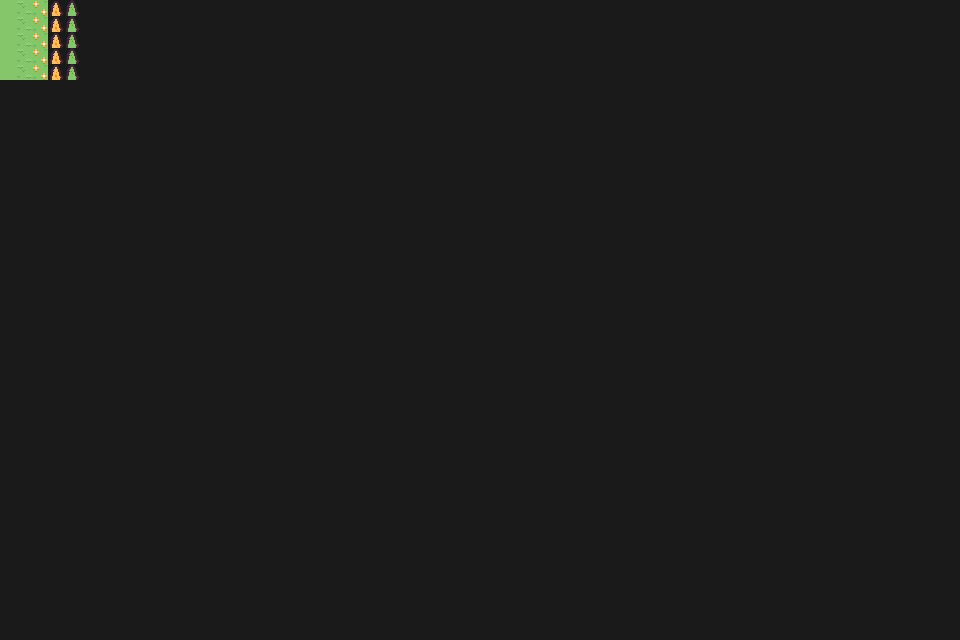
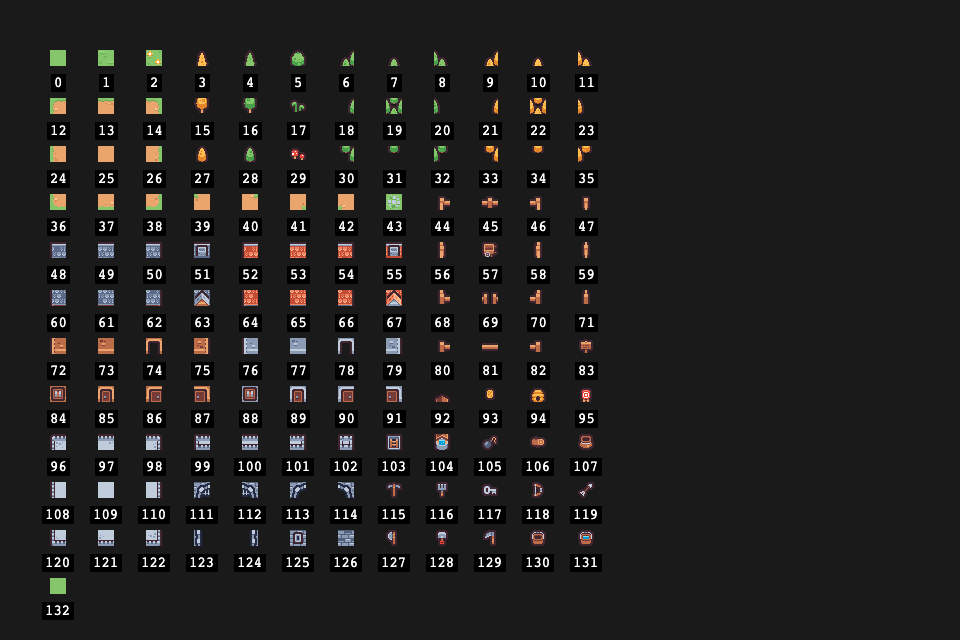
Phase 0 complete: viewer, index scene, capture, vision verified

Changed region(s): [[0.0, 0.0, 0.625, 0.9688]]

diff --git a/src/ViewerScene.js b/src/ViewerScene.js
@@ -1,3 +1,5 @@
+import { captureScreenshot } from './capture.js';
+
 export default class ViewerScene extends Phaser.Scene {
   constructor() { super('ViewerScene'); }
 
@@ -25,41 +27,13 @@ export default class ViewerScene extends Phaser.Scene {
     
     // S key for screenshot capture
     this.input.keyboard.on('keydown-S', () => {
-      this.captureScreenshot();
+      captureScreenshot(this);
     });
     
     // I key to toggle to IndexScene
     this.input.keyboard.on('keydown-I', () => {
       this.scene.start('IndexScene');
     });
-  }
-
-  async captureScreenshot() {
-    try {
-      const canvas = this.game.canvas;
-      const dataURL = canvas.toDataURL('image/png');
-      const base64Data = dataURL.split(',')[1];
-      const binaryString = atob(base64Data);
-      const bytes = new Uint8Array(binaryString.length);
-      for (let i = 0; i < binaryString.length; i++) {
-        bytes[i] = binaryString.charCodeAt(i);
-      }
-      
-      const response = await fetch('/capture', {
-        method: 'POST',
-        headers: { 'Content-Type': 'image/png' },
-        body: bytes.buffer
-      });
-      
-      if (response.ok) {
-        const result = await response.json();
-        console.log(`Screenshot saved: ${result.filename}`);
-      } else {
-        console.error('Screenshot failed:', await response.text());
-      }
-    } catch (err) {
-      console.error('Screenshot error:', err);
-    }
   }
 
   update() {

diff --git a/src/capture.js b/src/capture.js
@@ -1,0 +1,27 @@
+export async function captureScreenshot(scene) {
+  try {
+    const canvas = scene.game.canvas;
+    const dataURL = canvas.toDataURL('image/png');
+    const base64Data = dataURL.split(',')[1];
+    const binaryString = atob(base64Data);
+    const bytes = new Uint8Array(binaryString.length);
+    for (let i = 0; i < binaryString.length; i++) {
+      bytes[i] = binaryString.charCodeAt(i);
+    }
+    
+    const response = await fetch('/capture', {
+      method: 'POST',
+      headers: { 'Content-Type': 'image/png' },
+      body: bytes.buffer
+    });
+    
+    if (response.ok) {
+      const result = await response.json();
+      console.log(`Screenshot saved: ${result.filename}`);
+    } else {
+      console.error('Screenshot failed:', await response.text());
+    }
+  } catch (err) {
+    console.error('Screenshot error:', err);
+  }
+}

diff --git a/src/IndexScene.js b/src/IndexScene.js
@@ -1,9 +1,11 @@
+import { captureScreenshot } from './capture.js';
+
 export default class IndexScene extends Phaser.Scene {
   constructor() { super('IndexScene'); }
 
   preload() {
     this.load.spritesheet('tiles', 'assets/tilemap_packed.png',
-  { frameWidth: 16, frameHeight: 16, spacing: 0 });
+      { frameWidth: 16, frameHeight: 16, spacing: 0 });
   }
 
   create() {
@@ -33,6 +35,11 @@ export default class IndexScene extends Phaser.Scene {
         padding: { x: 3, y: 2 }
       }).setOrigin(0.5, 0);
     }
+
+    // S key for screenshot capture
+    this.input.keyboard.on('keydown-S', () => {
+      captureScreenshot(this);
+    });
 
     // I key to toggle back to ViewerScene
     this.input.keyboard.on('keydown-I', () => {
